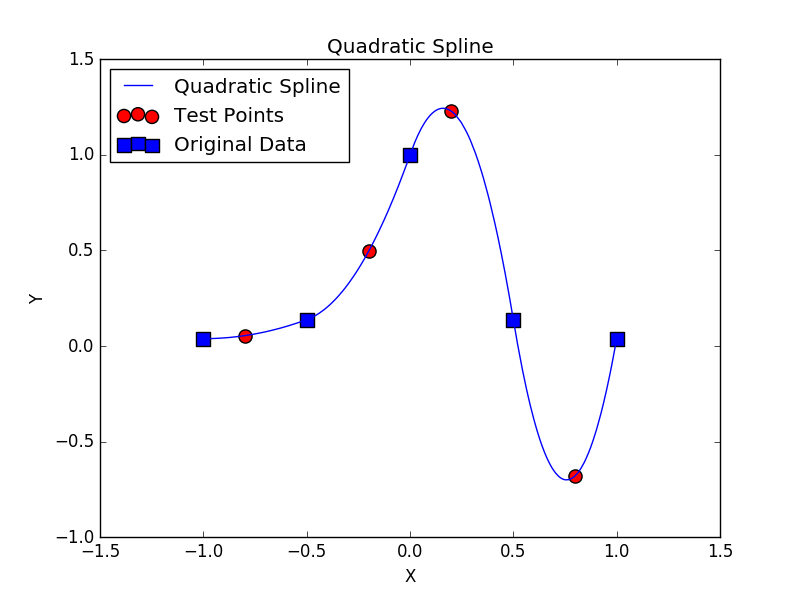
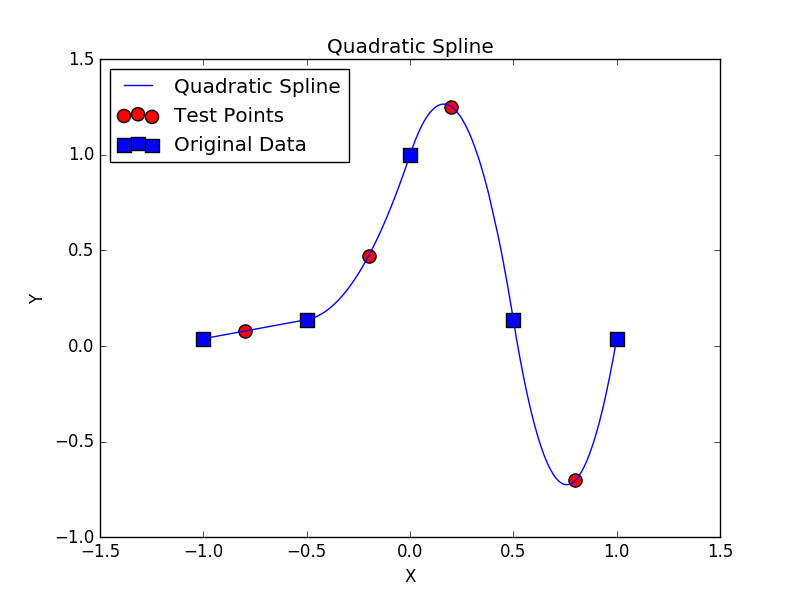
Fixed Quadratic Spline

diff --git a/QuadraticSpline.py b/QuadraticSpline.py
@@ -23,18 +23,26 @@ import numpy as np
 n = len(x)
 A = np.tri(n,n) - np.tri(n,n,-2)
 A = A.astype(float)
-d = [0.0 for i in range(n)]
+
+A = np.delete(A,np.s_[0],axis=0)
+A = A.tolist()
+A = [[1,-1]+[0 for i in range(len(A[0])-2)]] + A
+print A
+d = [0]
 for i in range(1,n):
-    d[i] = 2*(y[i]-y[i-1])/(x[i]-x[i-1])
+    d.append( 2*(y[i]-y[i-1])/(x[i]-x[i-1]))
+d = np.array(d)
+print d
+z = np.linalg.solve(A,d).tolist()
 
-z = np.linalg.solve(A,d)
-
+print len(z)
 def get_prediction(x,y,z,xstar):
     try:
         i = next(v[0] for v in enumerate(x) if v[1] > xstar)
         return (z[i-1]*(xstar - x[i-1])) + ((z[i]-z[i-1])*((xstar - x[i-1])**2)/(2*(x[i]-x[i-1]))) + y[i-1]
     except:
         return y[-1]
+
 
 yt = []
 for xstar in xt:
